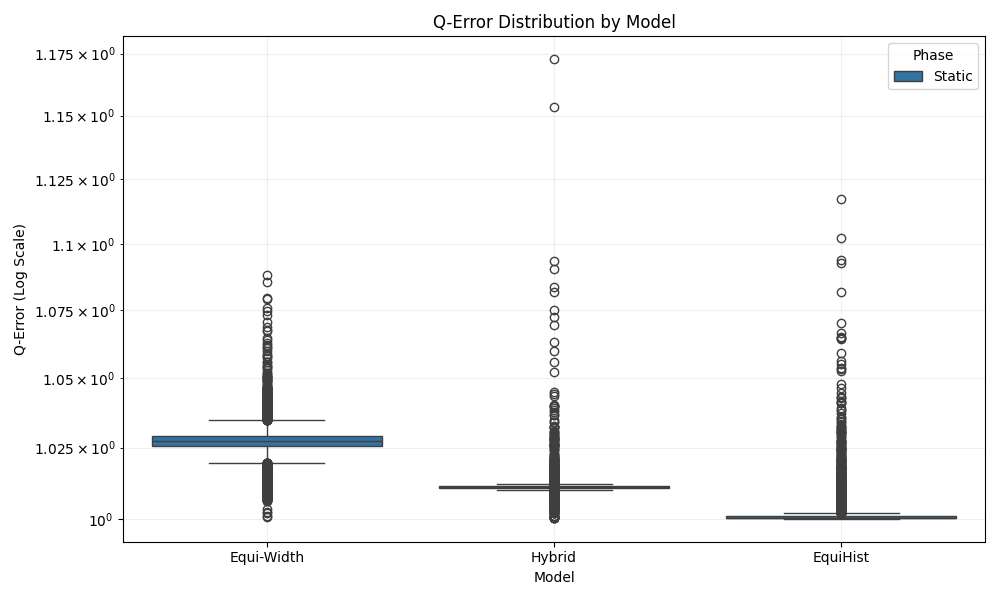
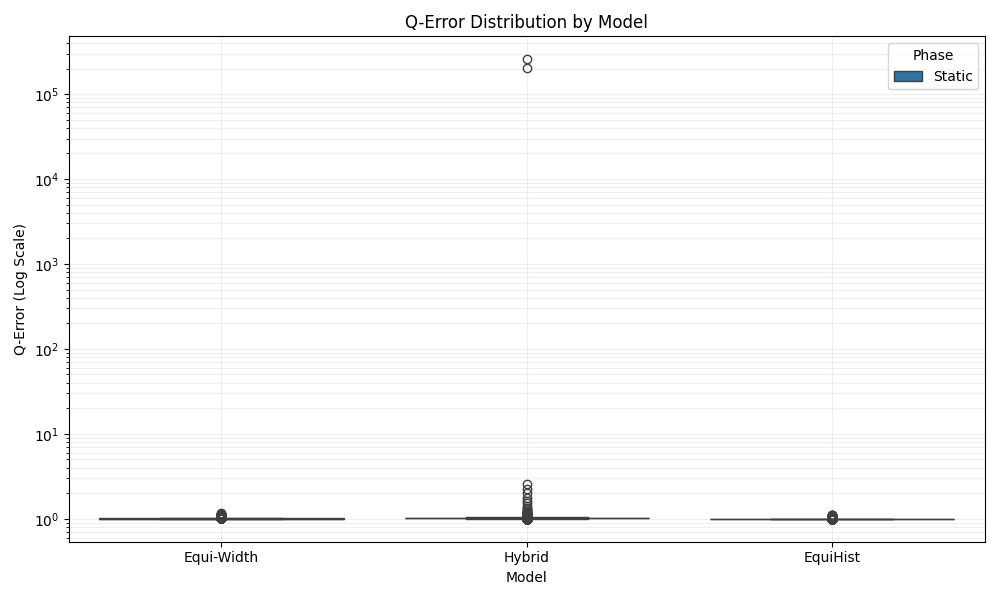
workload: enhance workload generation with max_width parameter and narrow workload support

diff --git a/models.py b/models.py
@@ -6,6 +6,21 @@ from dataclasses import dataclass
 from sklearn.linear_model import Ridge
 from sklearn.preprocessing import PolynomialFeatures
 from sklearn.pipeline import make_pipeline
+from sklearn.neural_network import MLPRegressor
+
+class LogModelWrapper:
+    """
+    Wraps a model (like MLP) to predict in Log-Space.
+    Trained on log1p(y), so predict must return expm1(pred).
+    """
+    def __init__(self, model):
+        self.model = model
+    
+    def predict(self, X):
+        pred_log = self.model.predict(X)
+        pred = np.expm1(pred_log)
+        return np.maximum(pred, 0) # Clamp negative values
+
 
 # -----------------------------------------------------------------------------
 # Core Data Structures
@@ -185,69 +200,14 @@ class HybridEstimator:
     def __init__(self, buckets: List[Bucket], models: Dict[int, Any] = None):
         self.buckets = buckets
         self.models = models if models is not None else {}
-        self.mcv: Dict[int, int] = {} # Map value -> count
         self.last_train_time = 0.0
 
-    def _extract_mcv(self, freq: np.ndarray, mn: int, top_k: int = 50) -> Dict[int, int]:
-        # Identify top-K heavy hitters
-        indices = np.argsort(freq)[::-1][:top_k]
-        mcv = {}
-        for idx in indices:
-            count = freq[idx]
-            if count == 0: break
-            val = int(idx + mn)
-            mcv[val] = int(count)
-        return mcv
-
     def train(self, freq: np.ndarray, mn: int, points_per_bucket: int, rng: np.random.Generator, bucket_indices: List[int] = None) -> float:
-        # 1. Extract MCV (Adaptive Skew Detection)
         t_start = time.perf_counter()
         
-        total_rows = np.sum(freq)
-        temp_mcv = self._extract_mcv(freq, mn, top_k=500)
-        mcv_mass = sum(temp_mcv.values())
-        
-        # Only use MCV if it accounts for > 1% of data (avoids holes in Uniform/Normal)
-        if mcv_mass > 0.01 * total_rows:
-            self.mcv = temp_mcv
-            print(f"MCV Enabled: {len(self.mcv)} items, Mass={mcv_mass/total_rows:.2%}")
-        else:
-            self.mcv = {}
-            print(f"MCV Disabled: Mass={mcv_mass/total_rows:.2%} < 1%")
-        
-        # 2. Create Residual Frequency & Update Bucket Counts
-        residual_freq = freq.copy()
-        for val, count in self.mcv.items():
-            idx = val - mn
-            if 0 <= idx < len(residual_freq):
-                residual_freq[idx] -= count
-        
-        # CRITICAL FIX: Update bucket counts to reflect residual mass!
-        # Otherwise we double-count (MCV loop + Bucket loop)
-        # Note: We must update counts bucket-by-bucket
-        ps_residual = np.cumsum(residual_freq)
-        
-        for b in self.buckets:
-            # Re-calculate count from residual_freq
-            b_lo_idx = b.lo - mn
-            b_hi_idx = b.hi - mn
-            
-            # Clamp indices
-            if b_hi_idx < 0 or b_lo_idx >= len(ps_residual):
-                 b.count = 0
-                 continue
-                 
-            idx_start = max(0, b_lo_idx - 1)
-            idx_end = min(len(ps_residual) - 1, b_hi_idx)
-            
-            val_end = ps_residual[idx_end]
-            val_start = ps_residual[idx_start] if b_lo_idx > 0 else 0
-            
-            b.count = int(val_end - val_start)
-
-        # 3. Train models on Residual
-        rows = self._collect_cdf_training_rows(residual_freq, mn, points_per_bucket, rng, bucket_indices)
-        new_models, t_train_models = self._train_adaptive_models(rows) # Renamed to adaptive
+        # Train models directly on the raw frequency distribution (No MCV removal)
+        rows = self._collect_cdf_training_rows(freq, mn, points_per_bucket, rng, bucket_indices)
+        new_models, t_train_models = self._train_adaptive_models(rows)
         
         for k, v in new_models.items():
             self.models[k] = v
@@ -259,12 +219,7 @@ class HybridEstimator:
     def predict(self, q: RangeQuery) -> float:
         total = 0.0
         
-        # 1. MCV Contribution
-        for val, count in self.mcv.items():
-            if q.low <= val <= q.high:
-                total += count
-                
-        # 2. Residual Model Contribution
+        # Model Contribution only (No MCV)
         for i, b in enumerate(self.buckets):
             if b.hi < q.low: continue
             if b.lo > q.high: break
@@ -335,8 +290,45 @@ class HybridEstimator:
              # Higher Penalty for poly
             candidates.append((mse_poly * 1.2, "poly", mdl_poly))
             
+            # 4. Neural Network (MLP) - Standard
+            mdl_mlp = MLPRegressor(hidden_layer_sizes=(16, 8), activation='relu', solver='lbfgs', max_iter=500, random_state=42)
+            try:
+                mdl_mlp.fit(X, y)
+                y_pred_mlp = mdl_mlp.predict(X)
+                mse_mlp = np.mean((y - y_pred_mlp)**2)
+                candidates.append((mse_mlp * 1.5, "mlp", mdl_mlp))
+            except Exception:
+                pass 
+            
+            # 5. Log-Space Neural Network (Deep Learning for Power Laws)
+            mdl_log_mlp = MLPRegressor(hidden_layer_sizes=(16, 8), activation='relu', solver='lbfgs', max_iter=500, random_state=42)
+            try:
+                # Transform targets to Log-Space: y -> log(y + 1)
+                y_log = np.log1p(y)
+                mdl_log_mlp.fit(X, y_log)
+                
+                # Predict in Log-Space
+                y_pred_log = mdl_log_mlp.predict(X)
+                
+                # Inverse Transform: y_pred -> exp(y_log) - 1
+                y_pred_log_mlp = np.expm1(y_pred_log)
+                y_pred_log_mlp = np.maximum(y_pred_log_mlp, 0)
+                
+                mse_log_mlp = np.mean((y - y_pred_log_mlp)**2)
+                candidates.append((mse_log_mlp * 1.5, "log_mlp", mdl_log_mlp))
+            except Exception:
+                pass
+            
             # Select Best
-            best_model = min(candidates, key=lambda x: x[0])[2]
+            best_candidate = min(candidates, key=lambda x: x[0])
+            best_model_name = best_candidate[1]
+            best_model_obj = best_candidate[2]
+            
+            if best_model_name == "log_mlp":
+                best_model = LogModelWrapper(best_model_obj)
+            else:
+                best_model = best_model_obj
+                
             models[i] = best_model
             
         return models, time.perf_counter() - t0
